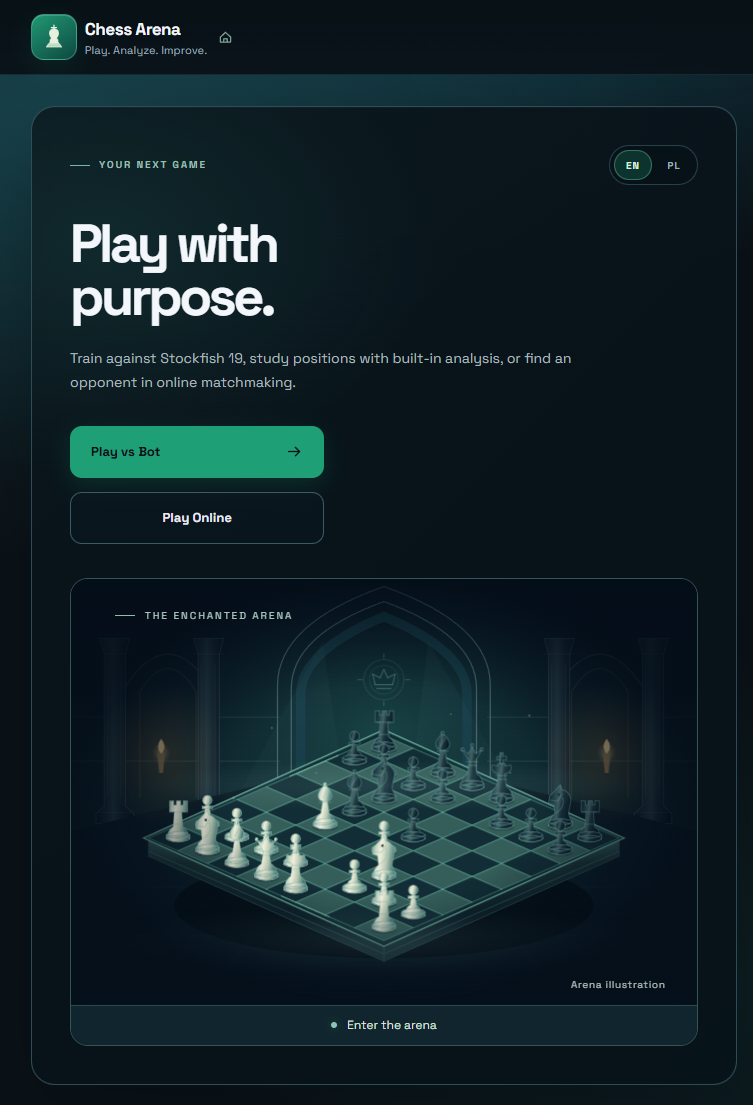
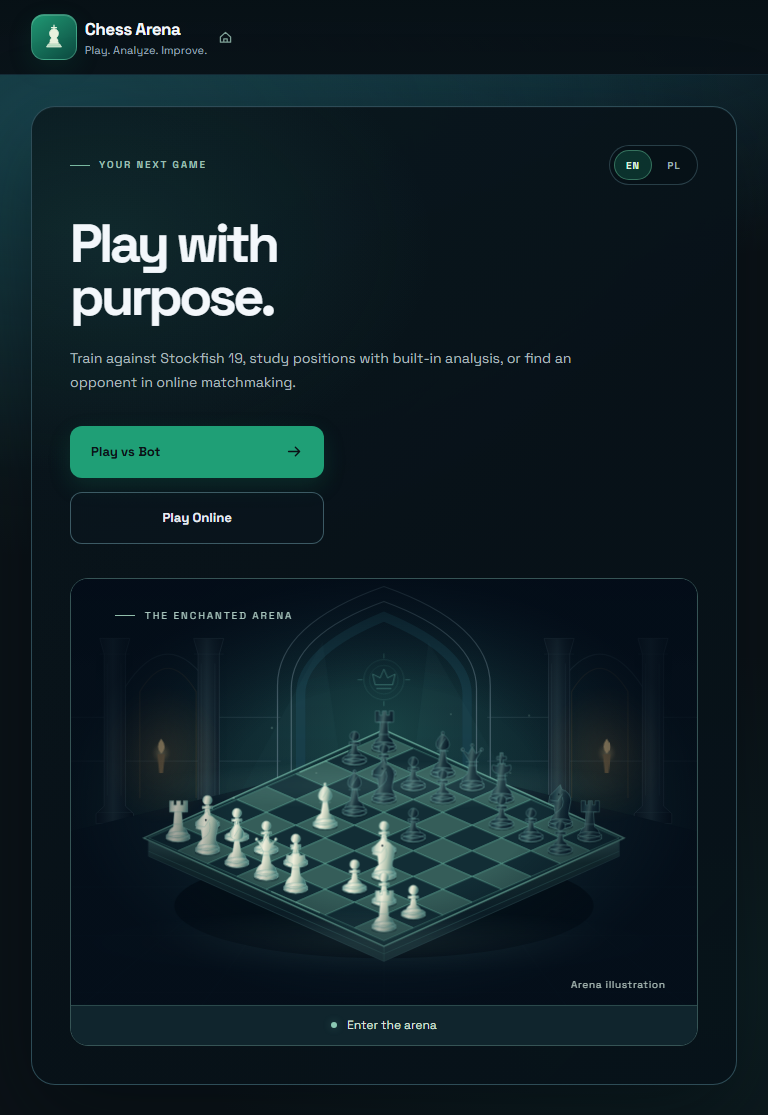
test(arena): refresh browser review evidence

diff --git a/docs/arena-review.md b/docs/arena-review.md
@@ -1,10 +1,10 @@
 # Chess Arena visual and functional review
 
-Browser review recorded at `2026-10-27T23:16:22Z`. Detailed browser data is in [report.json](arena-evidence/report.json), and the live multiplayer run is in [multiplayer-report.json](arena-evidence/multiplayer-report.json).
+Browser review recorded at `2026-10-28T11:30:23Z`. Detailed browser data is in [report.json](arena-evidence/report.json), and the earlier live multiplayer run is in [multiplayer-report.json](arena-evidence/multiplayer-report.json). The current automated multiplayer smoke coverage is documented in [multiplayer-e2e.md](multiplayer-e2e.md).
 
 ## Landing page
 
-The landing page uses the Chess Arena king mark and the animated arena scene. The two primary actions remain stacked and share the same left edge and width. The Stockfish and online-room feature chips shown in the earlier design have been removed. The browser review checked alignment and chip removal at all eight viewport sizes, along with English and Polish copy, language persistence, and both navigation actions.
+The landing page uses the Chess Arena king mark and the animated arena scene. The two primary actions remain stacked and share the same left edge and width. The browser review checked alignment at all eight viewport sizes, along with English and Polish copy, language persistence, and both navigation actions.
 
 | View | Screenshot |
 | --- | --- |
@@ -22,7 +22,7 @@ No horizontal overflow was found at these sizes. The screenshots capture the ful
 
 ## Arena and multiplayer
 
-The shared inline SVG arena is deferred on the landing page and lobby, and removed during an active game. Reduced-motion and offscreen behavior were checked. Match-found feedback does not block board input or replay after duplicate events.
+The animated arena appears on the landing page and lobby, with reduced-motion and offscreen behavior. Match-found feedback does not block board input or replay after duplicate events.
 
 The live browser run used independent Chrome clients against the local backend. It verified room creation, host management and deletion, a second player joining, host start, both players receiving the same game with opposite colors, synchronized `e2–e4` and `e7–e5` moves, turn ownership, read-only spectator access, and game completion. It recorded zero browser runtime errors.
 
@@ -46,19 +46,19 @@ The Arena review ran in headless Chrome 156 on Windows with an AMD Ryzen 5 8645H
 
 | Scenario | Viewport | p95 frame time | Long tasks |
 | --- | ---: | ---: | ---: |
-| Lobby | 1440 × 900 | 7.1 ms | 0 |
-| Lobby, 4× slowdown | 1440 × 900 | 7.1 ms | 0 |
-| Mobile emulation, 4× slowdown | 375 × 667 | 7.1 ms | 0 |
-| Waiting fixture, 4× slowdown | 1440 × 900 | 7.1 ms | 0 |
+| Lobby | 1440 × 900 | 16.8 ms | 0 |
+| Lobby, 4× slowdown | 1440 × 900 | 16.7 ms | 0 |
+| Mobile emulation, 4× slowdown | 375 × 667 | 16.7 ms | 0 |
+| Waiting fixture, 4× slowdown | 1440 × 900 | 16.7 ms | 0 |
 
-The headless runner reported about 144 frames per second, which reflects its frame scheduler rather than a device performance claim. Twenty Home-to-game-to-Home cycles kept DOM nodes at 769 and JavaScript listeners at 15. Used heap rose by about 0.92 MiB; the measurements do not establish a perfectly flat heap over long sessions.
+The headless runner reported about 60 frames per second. Mobile used viewport emulation and 4× CPU slowdown on the same laptop; these results are not physical-device measurements. Twenty Home-to-game-to-Home cycles kept DOM nodes at 769 and JavaScript listeners at 15. Used heap rose by about 1.14 MiB; the measurements do not establish a perfectly flat heap over long sessions.
 
-The production build completed with an initial bundle of 297.44 kB raw / 82.45 kB estimated transfer. The Arena lazy chunk is 22,195 B raw / 7,234 B gzip. Angular reported the game page stylesheet at 16.34 kB, 339 B above its 16 kB warning budget, and the existing CommonJS optimization warning for `sockjs-client`.
+The current production build has an initial bundle of 297.44 kB raw / 82.46 kB estimated transfer and a 22,195 B Arena lazy chunk (7,234 B gzip). Angular reports no component stylesheet budget warning. The remaining CommonJS warning is for `sockjs-client`; it stays because Spring serves the tested STOMP endpoint with SockJS enabled.
 
 ## Validation
 
-- Frontend unit suite: 16 files, 94 tests passed.
+- Frontend unit suite: 17 files, 96 tests passed.
 - Stockfish.js 19 asset and UCI search check: passed.
-- Production Angular build: completed; see the stylesheet and CommonJS warnings above.
-- Arena browser assertions: language, navigation, all eight landing viewports, animation states, reduced motion, and route cleanup passed.
-- Multiplayer browser assertions: room management, two-player play, move synchronization, spectator permissions, and match completion passed.
+- Production Angular build: completed with no component stylesheet budget warning; the remaining `sockjs-client` CommonJS warning is documented above.
+- Arena browser assertions: language, navigation, all eight landing viewports, animation states, reduced motion, and repeated route transitions passed.
+- Multiplayer browser smoke: real host, guest, and spectator contexts verified room membership, two-way chat, synchronized legal moves, wrong-turn rejection, spectator permissions, resignation, and game review. See [multiplayer-e2e.md](multiplayer-e2e.md) for local reproduction and scope limits.
